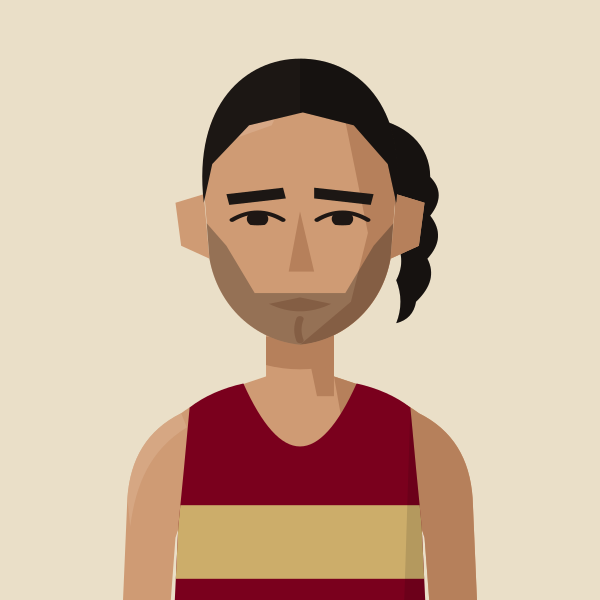
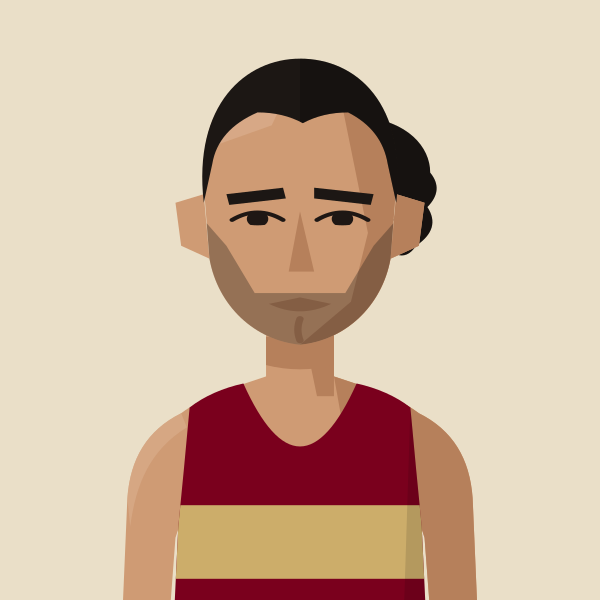
Nick Goolab: shorter ponytail, slight widow's peak
Claude-Session: https://claude.ai/code/session_01MgmDWhFqnSSnP4iBLKXUZC

Changed region(s): [[0.66, 0.3, 0.75, 0.54], [0.36, 0.18, 0.6, 0.27], [0.6, 0.21, 0.66, 0.27]]

diff --git a/tools/gen_portraits.py b/tools/gen_portraits.py
@@ -117,8 +117,8 @@ HAIR["longstraight"] = HAIR["longwavy"]
 HAIR_BACK["longstraight"] = '<path d="M60,90 C56,52 80,34 100,34 C120,34 144,52 140,90 L143,186 L57,186 Z"/>'
 HAIR["longstraight"] = HAIR["longwavy"]
 HAIR_BACK["longstraight"] = '<path d="M60,90 C56,52 80,34 100,34 C120,34 144,52 140,90 L142,188 L58,188 Z"/>'
-HAIR["slicktail"] = HAIR["slick"]
-HAIR_BACK["slicktail"] = '<path d="M122,64 C138,66 146,78 146,92 Q152,100 146,110 Q152,120 145,130 Q149,140 141,150 Q140,158 134,160 Q137,150 134,140 Q138,130 133,120 Q136,108 131,98 Q130,82 122,72 Z"/>'
+HAIR["slicktail"] = '<path d="M66,104 C62,58 81,37 100,37 C120,37 138,58 134,104 L131,86 Q129,70 117,62 Q108,62 101,67 Q94,62 85,62 Q71,70 69,86 Z"/>'
+HAIR_BACK["slicktail"] = '<path d="M122,64 C138,66 146,78 146,90 Q151,98 145,106 Q150,116 141,124 Q138,130 134,128 Q137,120 133,112 Q136,102 131,94 Q130,80 122,72 Z"/>'
 FACIAL = {
     "mostubble": '<path d="M66,112 L74,124 L84,146 L116,146 L126,124 L134,112 L134,180 L66,180 Z" opacity=".32"/><path d="M84,141 L100,137 L116,141 L117,150 L112,147 L100,144 L88,147 L83,150 Z"/>',
     "muttonchops": '<path d="M65,98 L70,98 L71,120 Q74,134 84,143 Q86,148 82,151 Q74,151 70,143 Q66,132 65,118 Z"/><path d="M135,98 L130,98 L129,120 Q126,134 116,143 Q114,148 118,151 Q126,151 130,143 Q134,132 135,118 Z"/>',
